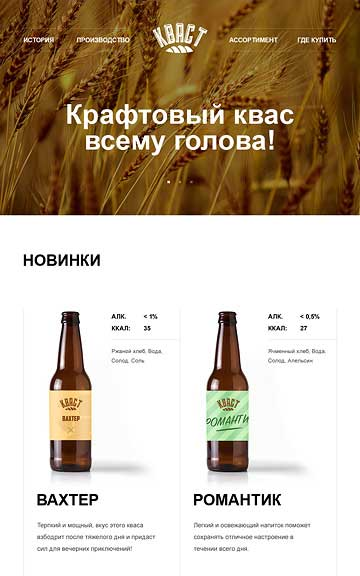
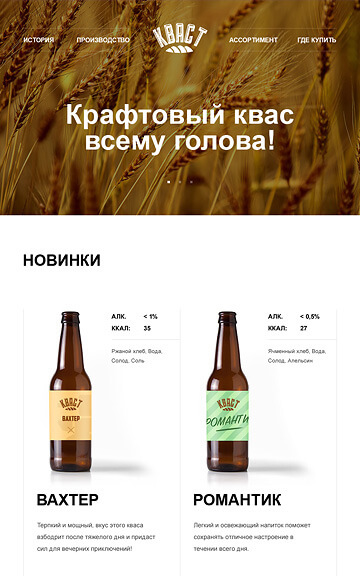
Исправлен тег вместо svg на img + обновила картинки каталога

diff --git a/index.html b/index.html
@@ -9,7 +9,7 @@
 		<header class="main-header">
 			<nav class="main-nav">
 				<a class="main-logo"> <!-- без ссылки главной страницы на саму себя -->
-					<svg class="logotype" src="img/nerds-logo.svg" width="160" height="65" alt="Нёрдс"></svg>
+					<img class="logotype" src="img/nerds-logo.svg" width="160" height="65" alt="Нёрдс"></img>
 				</a>
 				<ul class="nav-items">
 					<li>

diff --git a/catalog.html b/catalog.html
@@ -9,7 +9,7 @@
 		<header class="main-header">
       		<nav class="main-nav">
         		<a class="main-logo" href="index.html"> 
-          			<svg class="logotype" src="img/nerds-logo.svg" width="160" height="65" alt="Нёрдс"></svg>
+          			<img class="logotype" src="img/nerds-logo.svg" width="160" height="65" alt="Нёрдс"></img>
         		</a>
         		<ul class="nav-items">
           			<li>
